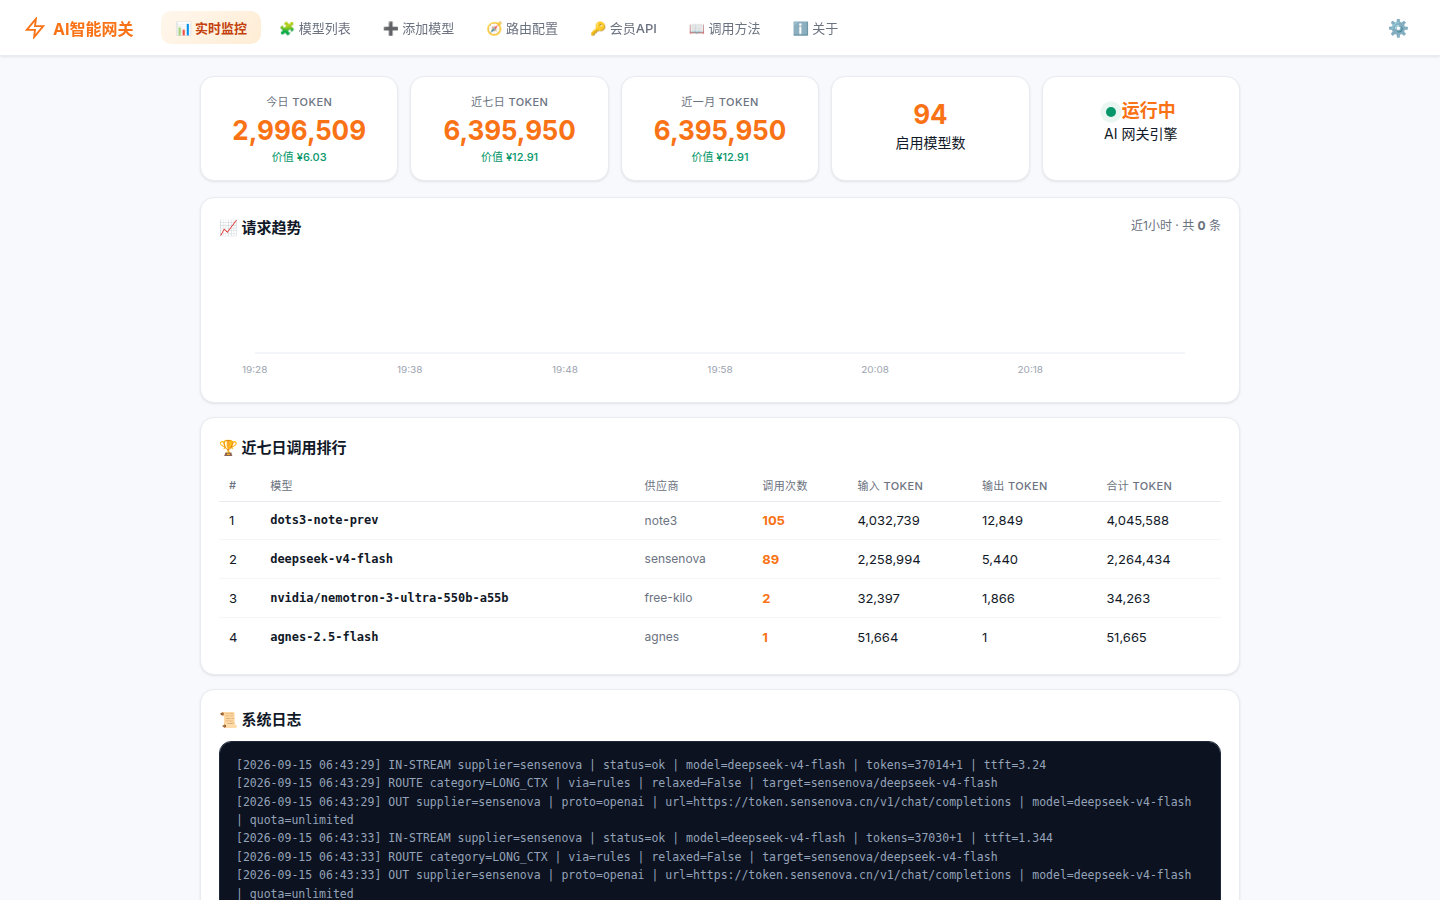
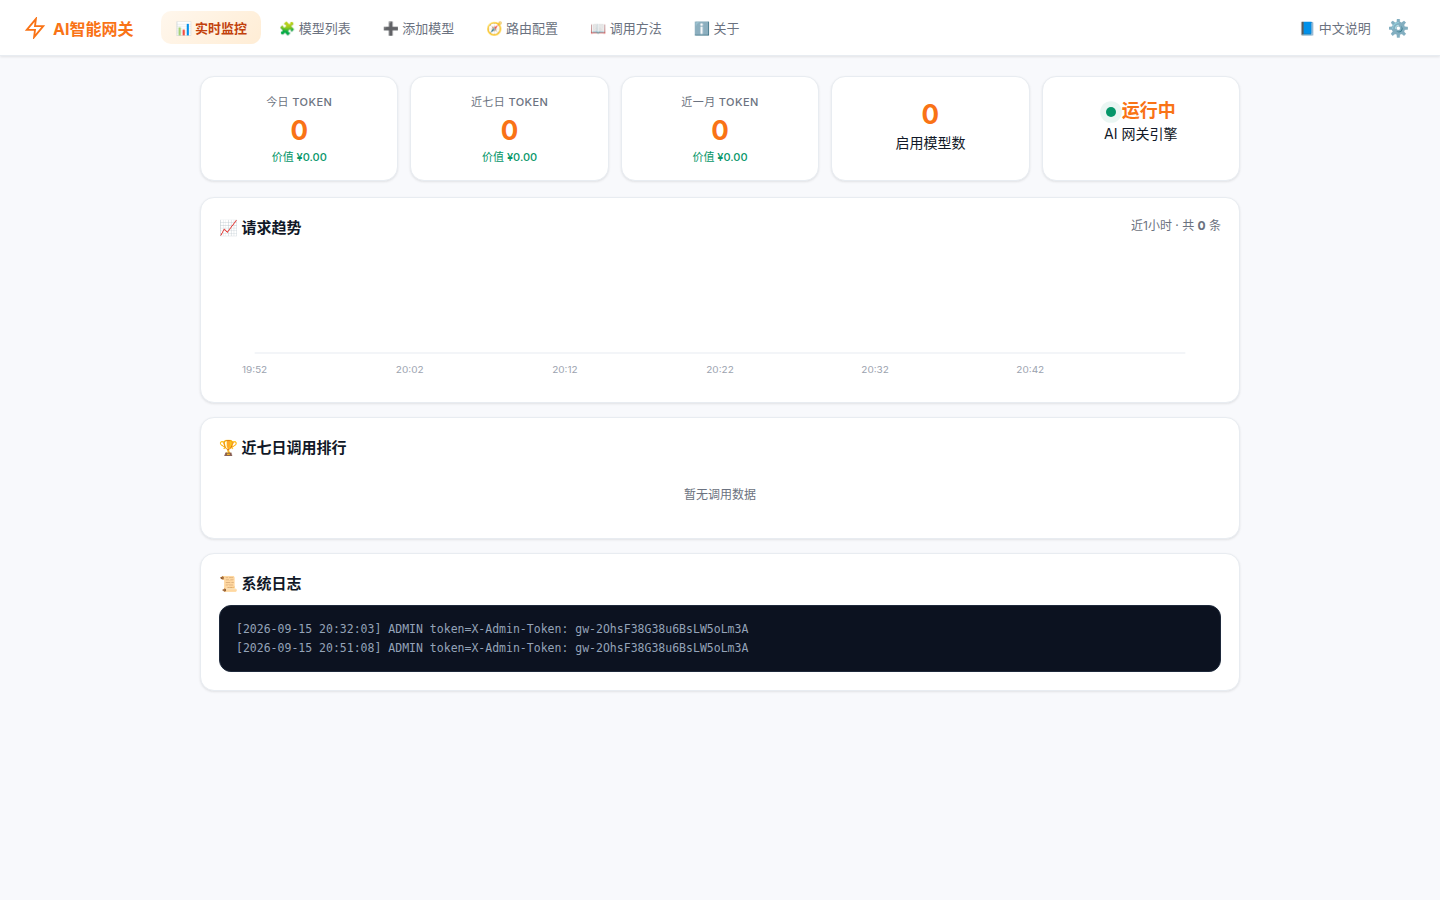
add-model: official free-tier templates, no-key local (Ollama/vLLM) presets; fix dashboard screenshot to current A build

diff --git a/gateway-client/frontend/index.html b/gateway-client/frontend/index.html
@@ -190,11 +190,11 @@ label.f{display:block;font-size:12px;color:var(--sub);margin:12px 0 5px;font-wei
 <section class="page" id="tab-add">
   <div class="card">
     <h2>添加模型源</h2>
-    <p class="hint" style="margin:4px 0 16px">三步接入：填地址 → 填密钥 → 点测试。测试通过后自动获取模型列表。</p>
+    <p class="hint" style="margin:4px 0 16px">三步接入：填地址 → 填密钥（本机/自建模型可免密钥） → 点测试。测试通过后自动获取模型列表。</p>
     <details class="adv" style="margin-bottom:14px">
-      <summary>📚 官方接口模板（一键填入地址，密钥需你自己填）</summary>
-      <div id="tplWrap" style="display:grid;grid-template-columns:repeat(auto-fill,minmax(210px,1fr));gap:8px;margin-top:10px"></div>
-      <p class="hint" style="margin-top:8px">模板仅提供各厂商公开的官方接口地址，不含任何密钥；填好后请在下方粘贴你自己购买的 API Key。</p>
+      <summary>📚 接口模板（官方付费 / 官方免费额度 / 本机免密钥，一键填入地址）</summary>
+      <div id="tplWrap" style="margin-top:10px"></div>
+      <p class="hint" style="margin-top:8px">模板仅提供各厂商公开的官方接口地址，不含任何密钥。付费 Key 请自行购买；「官方免费额度」的 Key 请到官方网页注册领取；「本机 / 自建」服务无需密钥。</p>
     </details>
     <div style="display:grid;grid-template-columns:1fr 1fr;gap:12px">
       <div><label class="f">标识名 *</label><input id="a_id" placeholder="my-provider"></div>
@@ -204,7 +204,7 @@ label.f{display:block;font-size:12px;color:var(--sub);margin:12px 0 5px;font-wei
     <input id="a_base" placeholder="https://xxx.com/v1">
     <label class="f">接口格式</label>
     <select id="a_proto"><option value="openai">OpenAI 标准</option><option value="anthropic">Claude 格式</option><option value="gemini">Gemini 格式</option></select>
-    <label class="f">密钥 Keys（每行一个；免密钥填 __KEYLESS__）</label>
+    <label class="f">密钥 Keys（每行一个；本机/自建服务免密钥填 __KEYLESS__）</label>
     <textarea id="a_keys" rows="3" class="mono"></textarea>
     <label class="f">开放哪些模型（留空 = 自动获取）</label>
     <textarea id="a_models" rows="4" class="mono"></textarea>
@@ -405,17 +405,38 @@ const OFFICIAL_TEMPLATES=[
   {id:'groq',     name:'Groq',              base:'https://api.groq.com/openai/v1',             proto:'openai'},
   {id:'openrouter',name:'OpenRouter',       base:'https://openrouter.ai/api/v1',               proto:'openai'},
 ];
+const FREE_TIER_TEMPLATES=[
+  {id:'gemini-free',   name:'Google Gemini（官方免费档）', base:'https://generativelanguage.googleapis.com/v1beta', proto:'gemini', free:true},
+  {id:'zhipu-free',    name:'智谱 GLM（官方免费档）',       base:'https://open.bigmodel.cn/api/paas/v4',            proto:'openai', free:true},
+  {id:'dashscope-free',name:'通义千问（官方限免档）',      base:'https://dashscope.aliyuncs.com/compatible-mode/v1', proto:'openai', free:true},
+  {id:'groq-free',     name:'Groq（官方免费档）',           base:'https://api.groq.com/openai/v1',                  proto:'openai', free:true},
+  {id:'cerebras-free', name:'Cerebras（官方免费档）',      base:'https://api.cerebras.ai/v1',                      proto:'openai', free:true},
+];
+const LOCAL_TEMPLATES=[
+  {id:'ollama',   name:'Ollama（本机）',    base:'http://127.0.0.1:11434/v1', proto:'openai', keyless:'__KEYLESS__'},
+  {id:'lmstudio', name:'LM Studio（本机）', base:'http://127.0.0.1:1234/v1',  proto:'openai', keyless:'__KEYLESS__'},
+  {id:'local',    name:'自定义本机/自建',    base:'http://127.0.0.1:8000/v1',  proto:'openai', keyless:'__KEYLESS__'},
+];
 function renderTemplates(){
   const w=$('tplWrap');if(!w)return;
-  w.innerHTML=OFFICIAL_TEMPLATES.map(t=>
-    `<div style="border:1.5px solid var(--line);border-radius:10px;padding:8px 12px;cursor:pointer;font-size:12px;transition:border-color .15s" onclick="fillTemplate('${t.id}')" title="点击填入 ${t.base}">
-       <b>${t.name}</b><div class="hint mono" style="font-size:10px;margin-top:2px">${t.base.replace('https://','').replace('/v1','').replace('/v1beta','')}</div>
-     </div>`).join('');
+  const card=t=>
+    `<div style="border:1.5px solid var(--line);border-radius:10px;padding:8px 12px;cursor:pointer;font-size:12px;transition:border-color .18s" onclick="fillTemplate('${t.id}')" title="点击填入 ${t.base}">
+       <b>${t.name}</b><div class="hint mono" style="font-size:10px;margin-top:2px">${t.base.replace(/^https?:\/\//,'').replace(/\/v1$/,'').replace(/\/v1beta$/,'')}</div>
+     </div>`;
+  const group=(title,arr,hint)=>`<div style="margin:12px 0 4px"><b style="font-size:12px">${title}</b><span class="hint" style="font-size:11px;margin-left:6px">${hint||''}</span></div>
+    <div style="display:grid;grid-template-columns:repeat(auto-fill,minmax(210px,1fr));gap:8px">${arr.map(card).join('')}</div>`;
+  w.innerHTML=
+    group('官方接口模板',OFFICIAL_TEMPLATES,'· 付费通道，Key 需你自己购买')+
+    group('官方免费额度',FREE_TIER_TEMPLATES,'· 免费额度以官方最新规则为准，Key 请到官方网页注册后领取')+
+    group('本机 / 自建模型（免密钥）',LOCAL_TEMPLATES,'· 仅用于你自己本机/内网部署的 Ollama、LM Studio、vLLM 等，点击自动填入 __KEYLESS__');
 }
 function fillTemplate(id){
-  const t=OFFICIAL_TEMPLATES.find(x=>x.id===id);if(!t)return;
-  $('a_id').value=t.id;$('a_name').value=t.name+' 官方';$('a_base').value=t.base;$('a_proto').value=t.proto;
-  $('a_keys').focus();toast('已填入 '+t.name+' 官方接口，请粘贴你自己的 Key','ok');
+  const t=OFFICIAL_TEMPLATES.find(x=>x.id===id)||FREE_TIER_TEMPLATES.find(x=>x.id===id)||LOCAL_TEMPLATES.find(x=>x.id===id);
+  if(!t)return;
+  $('a_id').value=t.id;$('a_name').value=t.name;$('a_base').value=t.base;$('a_proto').value=t.proto;
+  if(t.keyless){$('a_keys').value=t.keyless;$('a_keys').focus();toast('已填入本机模型 '+t.name+'，已置为免密钥','ok');return;}
+  $('a_keys').value='';$('a_keys').focus();
+  toast('已填入 '+t.name+(t.free?'（官方免费额度，请到官方注册后领取 Key）':' 官方接口，请粘贴你自己的 Key'),'ok');
 }
 loadCfg().then(()=>loadMonitor());
 setInterval(()=>{if($('tab-monitor').classList.contains('active'))loadMonitor();},10000);

diff --git a/web/index.html b/web/index.html
@@ -206,11 +206,11 @@ label.f{display:block;font-size:12px;color:var(--sub);margin:12px 0 5px;font-wei
 <section class="page" id="tab-add">
   <div class="card">
     <h2>添加模型源</h2>
-    <p class="hint" style="margin:4px 0 16px">三步接入：填地址 → 填密钥 → 点获取模型。勾选需要的模型后保存。</p>
+    <p class="hint" style="margin:4px 0 16px">三步接入：填地址 → 填密钥（本机/自建模型可免密钥） → 点获取模型。勾选需要的模型后保存。</p>
     <details class="adv" style="margin-bottom:14px">
-      <summary>📚 官方接口模板（一键填入地址，密钥需你自己填）</summary>
-      <div id="tplWrap" style="display:grid;grid-template-columns:repeat(auto-fill,minmax(210px,1fr));gap:8px;margin-top:10px"></div>
-      <p class="hint" style="margin-top:8px">模板仅提供各厂商公开的官方接口地址，不含任何密钥；填好后请在下方粘贴你自己购买的 API Key。</p>
+      <summary>📚 接口模板（官方付费 / 官方免费额度 / 本机免密钥，一键填入地址）</summary>
+      <div id="tplWrap" style="margin-top:10px"></div>
+      <p class="hint" style="margin-top:8px">模板仅提供各厂商公开的官方接口地址，不含任何密钥。付费 Key 请自行购买；「官方免费额度」的 Key 请到官方网页注册领取；「本机 / 自建」服务无需密钥。</p>
     </details>
     <div style="display:grid;grid-template-columns:1fr 1fr;gap:12px">
       <div><label class="f">标识名 *</label><input id="a_id" placeholder="my-provider"></div>
@@ -220,7 +220,7 @@ label.f{display:block;font-size:12px;color:var(--sub);margin:12px 0 5px;font-wei
     <input id="a_base" placeholder="https://xxx.com/v1">
     <label class="f">接口格式</label>
     <select id="a_proto"><option value="openai">OpenAI 标准</option><option value="anthropic">Claude 格式</option><option value="gemini">Gemini 格式</option></select>
-    <label class="f">密钥 Keys（每行一个；免密钥填 __KEYLESS__）</label>
+    <label class="f">密钥 Keys（每行一个；本机/自建服务免密钥填 __KEYLESS__）</label>
     <textarea id="a_keys" rows="3" class="mono"></textarea>
     <div class="flex" style="margin-top:16px">
       <button class="btn-g" onclick="fetchModels()">⬇ 获取模型</button>
@@ -460,17 +460,38 @@ const OFFICIAL_TEMPLATES=[
   {id:'groq',     name:'Groq',              base:'https://api.groq.com/openai/v1',             proto:'openai'},
   {id:'openrouter',name:'OpenRouter',       base:'https://openrouter.ai/api/v1',               proto:'openai'},
 ];
+const FREE_TIER_TEMPLATES=[
+  {id:'gemini-free',   name:'Google Gemini（官方免费档）', base:'https://generativelanguage.googleapis.com/v1beta', proto:'gemini', free:true},
+  {id:'zhipu-free',    name:'智谱 GLM（官方免费档）',       base:'https://open.bigmodel.cn/api/paas/v4',            proto:'openai', free:true},
+  {id:'dashscope-free',name:'通义千问（官方限免档）',      base:'https://dashscope.aliyuncs.com/compatible-mode/v1', proto:'openai', free:true},
+  {id:'groq-free',     name:'Groq（官方免费档）',           base:'https://api.groq.com/openai/v1',                  proto:'openai', free:true},
+  {id:'cerebras-free', name:'Cerebras（官方免费档）',      base:'https://api.cerebras.ai/v1',                      proto:'openai', free:true},
+];
+const LOCAL_TEMPLATES=[
+  {id:'ollama',   name:'Ollama（本机）',    base:'http://127.0.0.1:11434/v1', proto:'openai', keyless:'__KEYLESS__'},
+  {id:'lmstudio', name:'LM Studio（本机）', base:'http://127.0.0.1:1234/v1',  proto:'openai', keyless:'__KEYLESS__'},
+  {id:'local',    name:'自定义本机/自建',    base:'http://127.0.0.1:8000/v1',  proto:'openai', keyless:'__KEYLESS__'},
+];
 function renderTemplates(){
   const w=$('tplWrap');if(!w)return;
-  w.innerHTML=OFFICIAL_TEMPLATES.map(t=>
-    `<div style="border:1.5px solid var(--line);border-radius:10px;padding:8px 12px;cursor:pointer;font-size:12px;transition:border-color .15s" onclick="fillTemplate('${t.id}')" title="点击填入 ${t.base}">
-       <b>${t.name}</b><div class="hint mono" style="font-size:10px;margin-top:2px">${t.base.replace('https://','').replace('/v1','').replace('/v1beta','')}</div>
-     </div>`).join('');
+  const card=t=>
+    `<div style="border:1.5px solid var(--line);border-radius:10px;padding:8px 12px;cursor:pointer;font-size:12px;transition:border-color .18s" onclick="fillTemplate('${t.id}')" title="点击填入 ${t.base}">
+       <b>${t.name}</b><div class="hint mono" style="font-size:10px;margin-top:2px">${t.base.replace(/^https?:\/\//,'').replace(/\/v1$/,'').replace(/\/v1beta$/,'')}</div>
+     </div>`;
+  const group=(title,arr,hint)=>`<div style="margin:12px 0 4px"><b style="font-size:12px">${title}</b><span class="hint" style="font-size:11px;margin-left:6px">${hint||''}</span></div>
+    <div style="display:grid;grid-template-columns:repeat(auto-fill,minmax(210px,1fr));gap:8px">${arr.map(card).join('')}</div>`;
+  w.innerHTML=
+    group('官方接口模板',OFFICIAL_TEMPLATES,'· 付费通道，Key 需你自己购买')+
+    group('官方免费额度',FREE_TIER_TEMPLATES,'· 免费额度以官方最新规则为准，Key 请到官方网页注册后领取')+
+    group('本机 / 自建模型（免密钥）',LOCAL_TEMPLATES,'· 仅用于你自己本机/内网部署的 Ollama、LM Studio、vLLM 等，点击自动填入 __KEYLESS__');
 }
 function fillTemplate(id){
-  const t=OFFICIAL_TEMPLATES.find(x=>x.id===id);if(!t)return;
-  $('a_id').value=t.id;$('a_name').value=t.name+' 官方';$('a_base').value=t.base;$('a_proto').value=t.proto;
-  $('a_keys').focus();toast('已填入 '+t.name+' 官方接口，请粘贴你自己的 Key','ok');
+  const t=OFFICIAL_TEMPLATES.find(x=>x.id===id)||FREE_TIER_TEMPLATES.find(x=>x.id===id)||LOCAL_TEMPLATES.find(x=>x.id===id);
+  if(!t)return;
+  $('a_id').value=t.id;$('a_name').value=t.name;$('a_base').value=t.base;$('a_proto').value=t.proto;
+  if(t.keyless){$('a_keys').value=t.keyless;$('a_keys').focus();toast('已填入本机模型 '+t.name+'，已置为免密钥','ok');return;}
+  $('a_keys').value='';$('a_keys').focus();
+  toast('已填入 '+t.name+(t.free?'（官方免费额度，请到官方注册后领取 Key）':' 官方接口，请粘贴你自己的 Key'),'ok');
 }
 
 /* ---------- 版本信息 ---------- */

diff --git a/README.md b/README.md
@@ -42,7 +42,8 @@ bring your own keys, get smart routing, automatic failover, protocol translation
 - **Auto failover** — circuit breaker + configurable fallback chain; conversations keep running when
   a provider degrades or goes down
 - **Official endpoint templates** — built-in list of official vendor endpoints; click to fill, then
-  paste your own key
+  paste your own key; plus a free-tier section (official quota, key resigned at the vendor site)
+  and no-key local self-hosted entries (Ollama / LM Studio / vLLM) that auto-fill `__KEYLESS__`
 - **Cross-protocol translation** — transparent conversion between OpenAI / Anthropic / Gemini message formats
 - **Token compression** — auto-truncate or summarize long contexts to save quota
 - **Usage analytics** — today / 7-day / 30-day token trends and per-supplier breakdown
